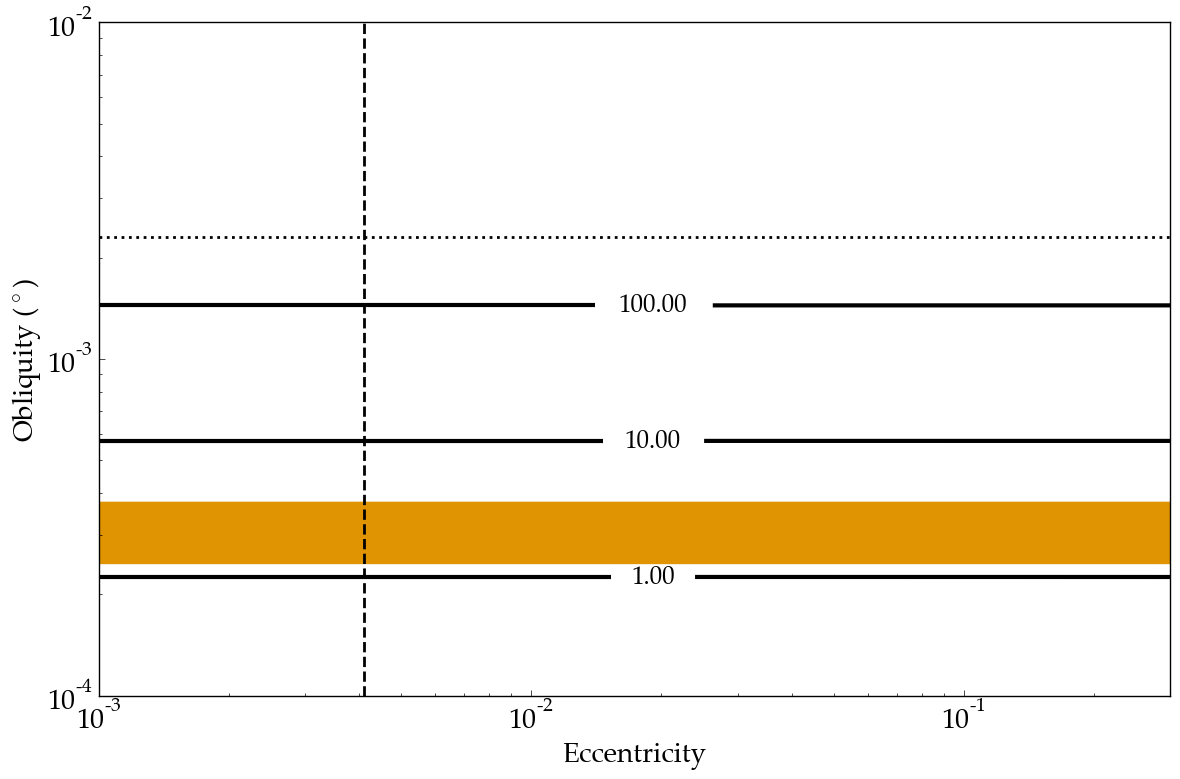
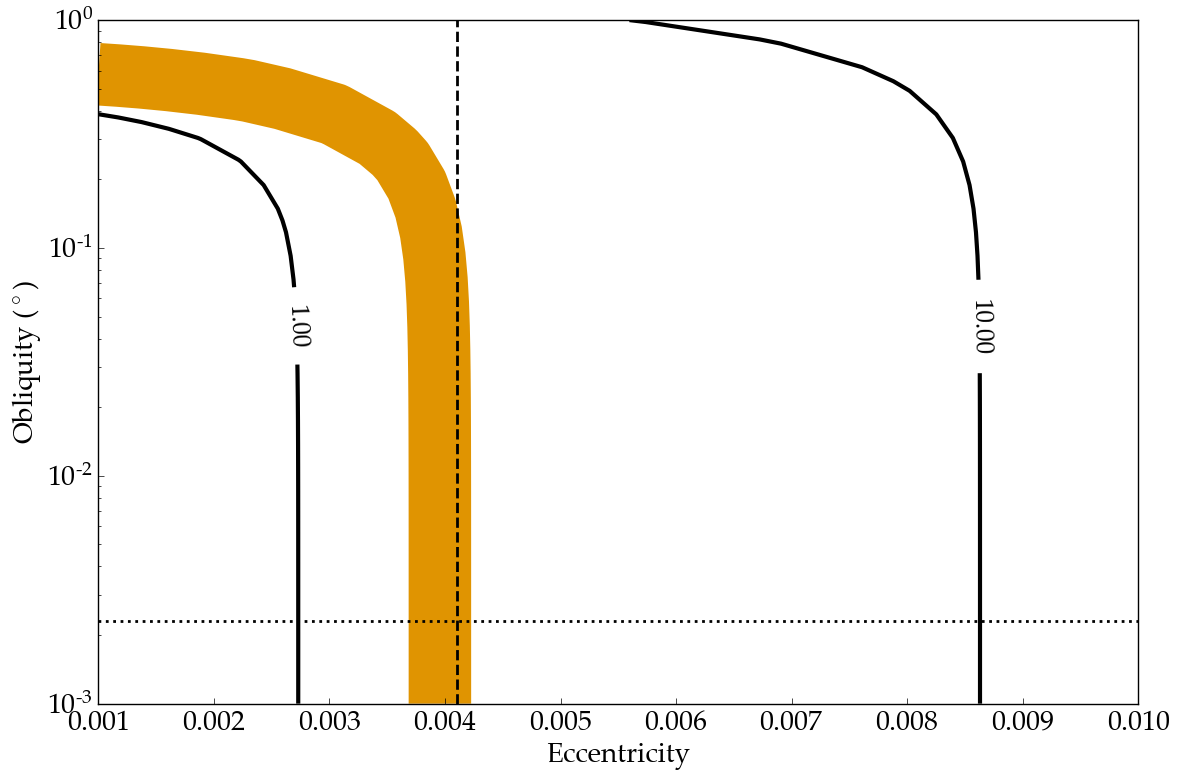
Fixed plotting issue in examples/IoHeat. Obliquity/eccentricity heating are now on the correct axes!

diff --git a/examples/IoHeat/makeplot.py b/examples/IoHeat/makeplot.py
@@ -20,9 +20,9 @@ if (sys.argv[1] != 'pdf' and sys.argv[1] != 'png'):
 # Number of dimensions
 necc=30
 nobl=30
-ecc=["" for j in range(necc)]
-obl=["" for j in range(nobl)]
-heat=[["" for j in range(necc)] for k in range(nobl)]
+ecc=[0 for j in range(necc)]
+obl=[0 for j in range(nobl)]
+heat=[[0 for j in range(necc)] for k in range(nobl)]
 
 result = subp.run("ls -d data/io*", shell=True, stdout=subp.PIPE).stdout.decode('utf-8')
 dirs=result.split()
@@ -56,7 +56,7 @@ for dir in dirs:
                 if (words[0] == "(Obliquity)") and (found == 1):
                     obl[iObl] = float(words[3])*180/3.1415926535
                 if (words[0] == "(SurfEnFluxEqtide)") and (found == 1):
-                    heat[iEcc][iObl] = float(words[10])
+                    heat[iObl][iEcc] = float(words[10])
         iObl += 1
         if (iObl == nobl):
         # New line in ecc
@@ -69,23 +69,23 @@ plt.xlabel('Eccentricity',fontsize=20)
 plt.ylabel('Obliquity ($^\circ$)',fontsize=20)
 plt.tick_params(axis='both', labelsize=20)
 
-plt.xscale('log')
+#plt.xscale('log')
 plt.yscale('log')
-plt.xlim(1e-3,0.3)
-plt.ylim(1e-4,0.01)
+plt.xlim(1e-3,0.01)
+plt.ylim(1e-3,1)
 
 ContSet = plt.contour(ecc,obl,heat,5,colors='black',linestyles='solid',
-                      levels=[0.01,0.1,1,10,100],linewidths=3)
+                      levels=[0.01,0.1,1,10,100],linewidths=3,origin='lower')
 plt.clabel(ContSet,fmt="%.2f",inline=True,fontsize=18)
 
 # Io's heat flux is 1.5-3 W/m^2. After some fussing, this choice of contour matches that range.
 plt.contour(ecc,obl,heat,5,colors=vpl.colors.orange,linestyles='solid',
-                      levels=[2.1],linewidths=45)
+                      levels=[2.1],linewidths=45,origin='lower')
 
 plt.tight_layout()
 
 x=[0.0041,0.0041]
-y=[1e-4,0.1]
+y=[1e-3,1]
 plt.plot(x,y,linestyle='dashed',color='black')
 
 x=[1e-3,0.3]

diff --git a/src/eqtide.c b/src/eqtide.c
@@ -3248,9 +3248,7 @@ double fdCPLTidePower(BODY *body,int iBody) {
 
     // XXX RB: Does this work with DF's changes to da/dt with the synchronous case?
     dOrbPow += -body[iBody].dTidalZ[iIndex]/8 * (4*body[iBody].iTidalEpsilon[iIndex][0] + body[iOrbiter].dEccSq*(-20*body[iBody].iTidalEpsilon[iIndex][0] + 147./2*body[iBody].iTidalEpsilon[iIndex][1] + 0.5*body[iBody].iTidalEpsilon[iIndex][2] - 3*body[iBody].iTidalEpsilon[iIndex][5]) - 4*sin(body[iBody].dObliquity)*sin(body[iBody].dObliquity)*(body[iBody].iTidalEpsilon[iIndex][0] - body[iBody].iTidalEpsilon[iIndex][8]));
-
     dRotPow += body[iBody].dTidalZ[iIndex]*body[iBody].dRotRate/(8*body[iOrbiter].dMeanMotion) * (4*body[iBody].iTidalEpsilon[iIndex][0] + body[iOrbiter].dEccSq*(-20*body[iBody].iTidalEpsilon[iIndex][0] + 49*body[iBody].iTidalEpsilon[iIndex][1] + body[iBody].iTidalEpsilon[iIndex][2]) + 2*sin(body[iBody].dObliquity)*sin(body[iBody].dObliquity)*(-2*body[iBody].iTidalEpsilon[iIndex][0] + body[iBody].iTidalEpsilon[iIndex][8] + body[iBody].iTidalEpsilon[iIndex][9]));
-
   }
 
   return dOrbPow + dRotPow;
